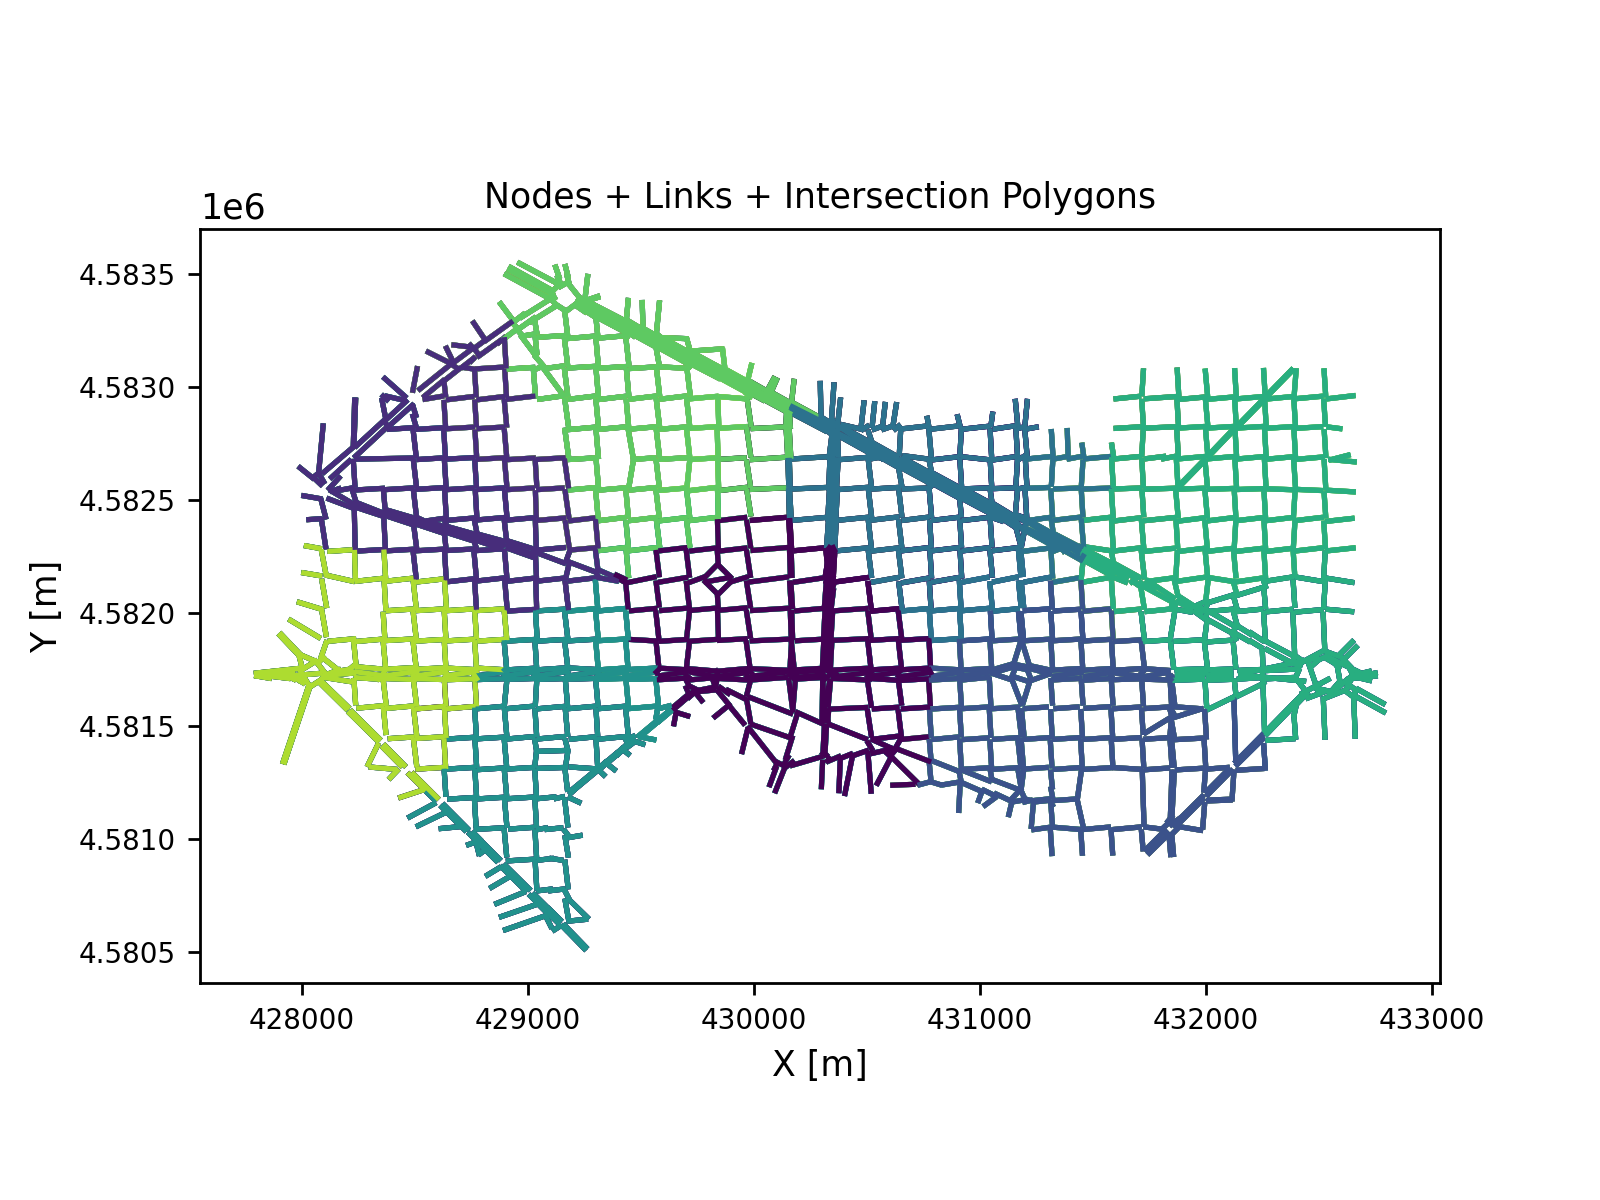
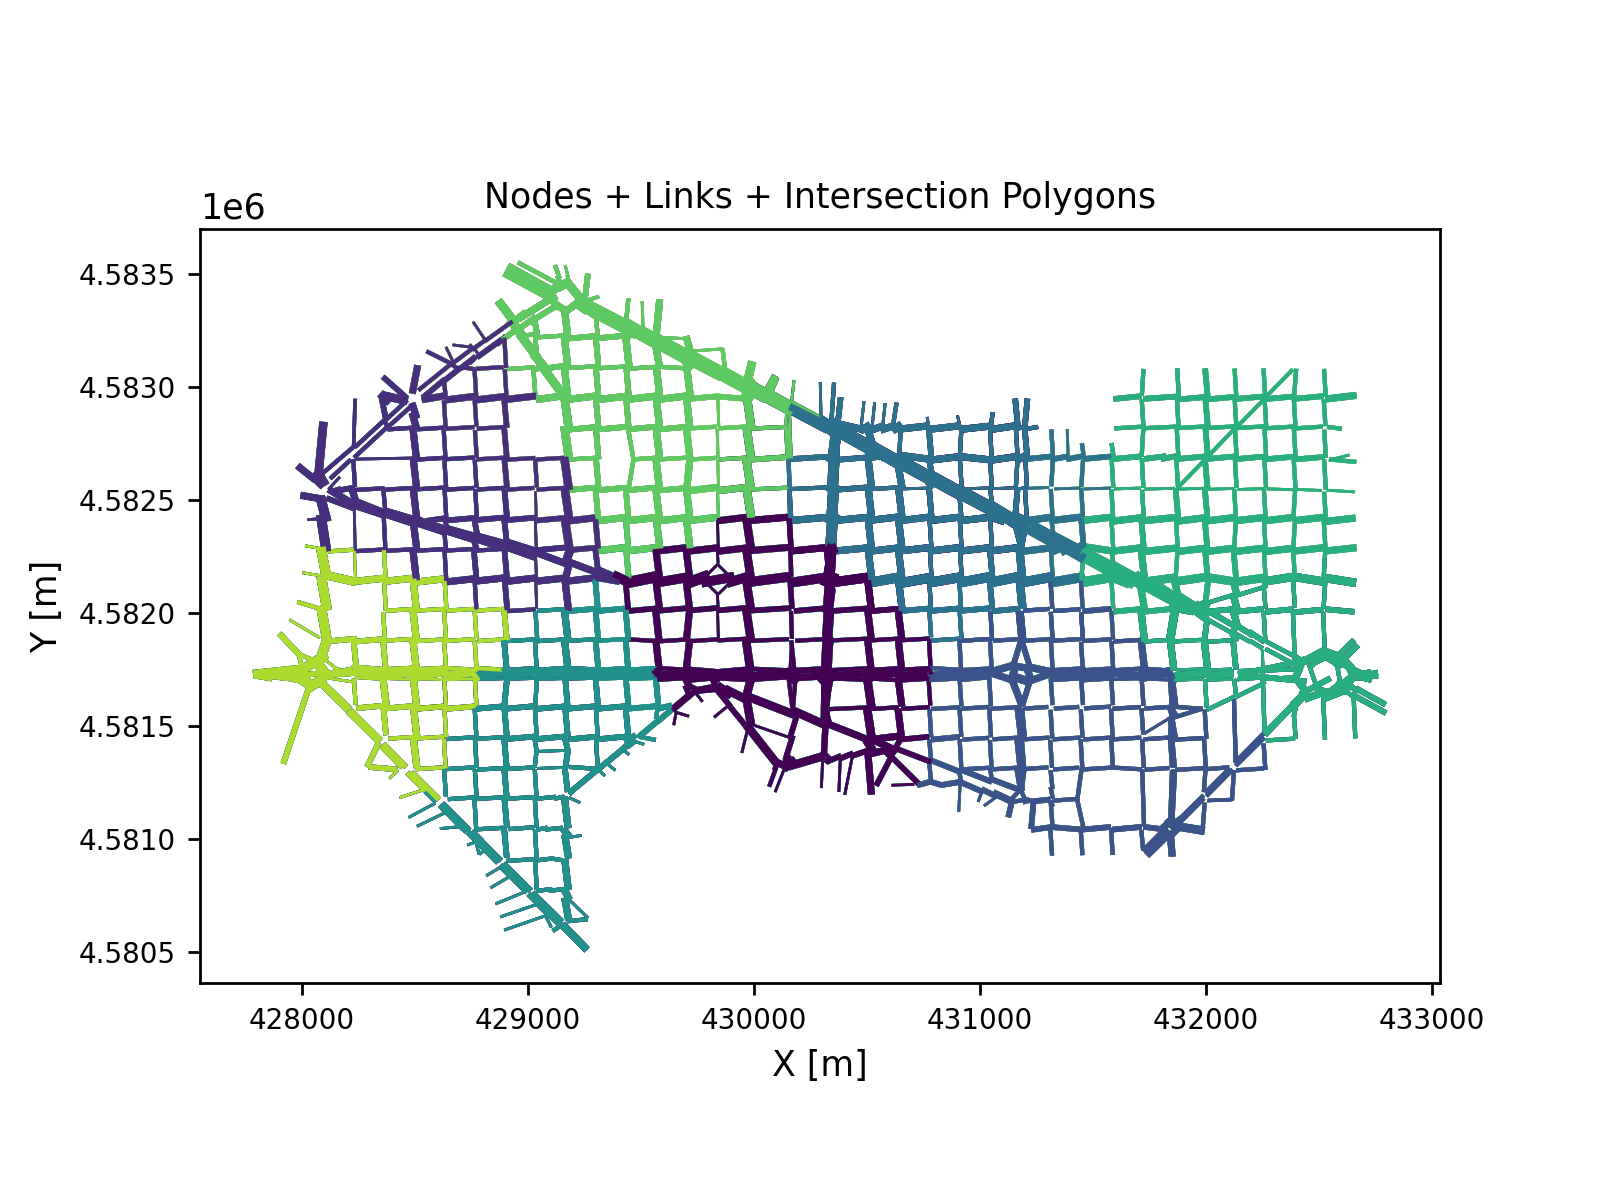
Linewidth

diff --git a/main.py b/main.py
@@ -307,7 +307,7 @@ def kmeans_clust(n_clusters, random_states, name):
         for j, row in plot_links.iterrows():
             x, y = sublink(row)
             color=plt.cm.viridis(row["cluster"]/n_clus)
-            ax.plot(x, y, c = color)      
+            ax.plot(x, y, c = color, linewidth = 0.4 + row["num_lanes"] * 0.4)      
             
         ### Plotting the intersetion polygons
         #polyg(ax)
@@ -479,7 +479,7 @@ def clustering(n_clusters, name, feature_type):
     for _, row in plot_links.iterrows():
         x, y = sublink(row)
         color = cluster_colors[int(row["cluster"])]
-        ax.plot(x, y, c=color)
+        ax.plot(x, y, c=color, linewidth = 0.4 + row["num_lanes"] * 0.4)
 
     handles = [
         plt.Line2D([0], [0], color=cluster_colors[k], lw=3, label=f"Cluster {k}")
@@ -530,17 +530,19 @@ def grid_clust(xdiv = 4, ydiv = 4, showgrid = True):
 
     cmap = plt.colormaps.get_cmap("tab20")
     cell_color = {cell: cmap(i) for i, cell in enumerate(unique_cells)}
-    
+
     ### Plotting the links
     for _, row in plot_links.iterrows():
-
+        x, y = sublink(row)
+        
         cell = (row["cell_x"], row["cell_y"])
         color = cell_color[cell]
 
         ax.plot(
-            [row["from_x"], row["to_x"]],
-            [row["from_y"], row["to_y"]],
-            color=color
+            x,
+            y,
+            color=color,
+            linewidth = 0.4 + row["num_lanes"] * 0.4
         )
     
     ### Plotting the grid cells
